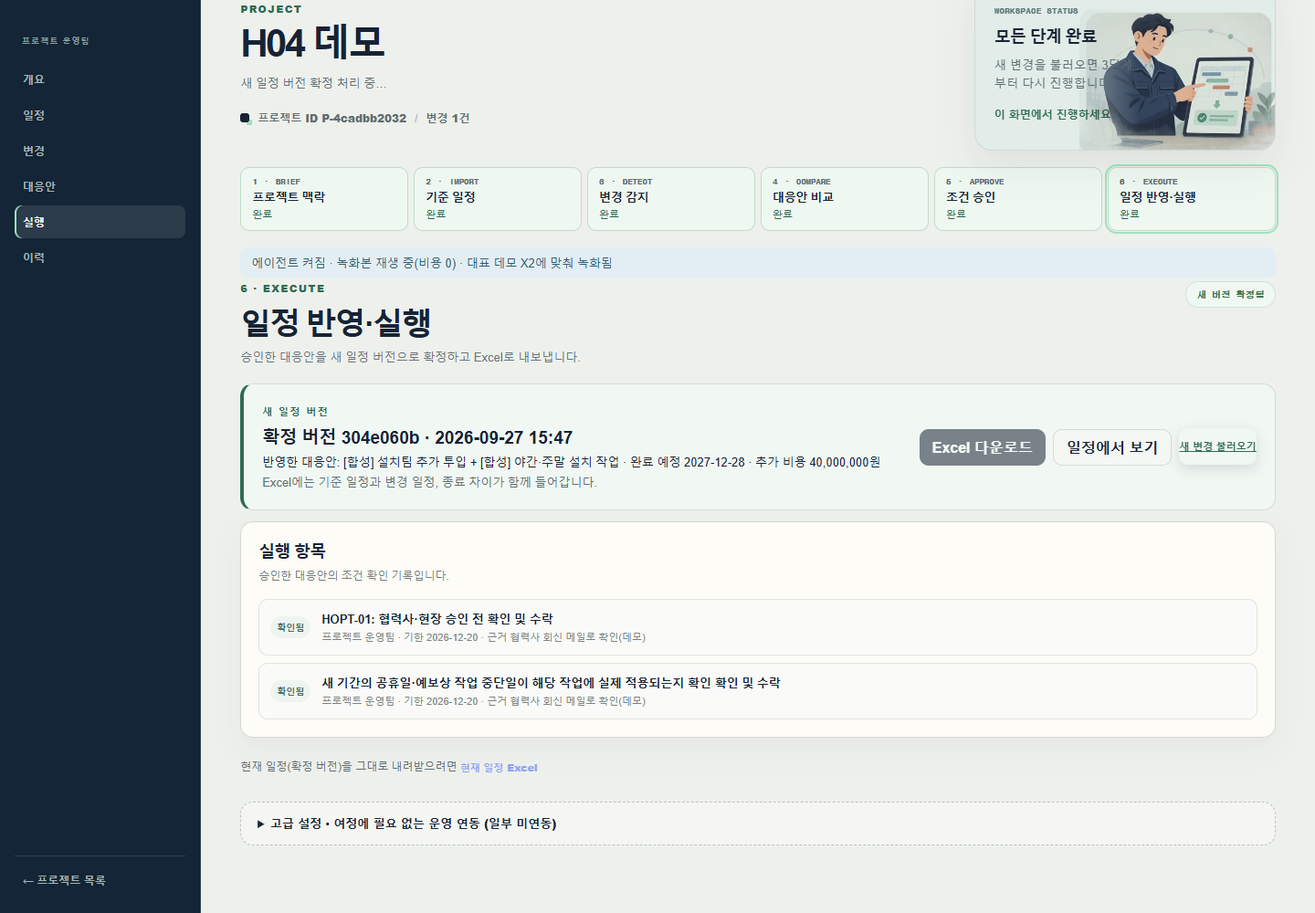
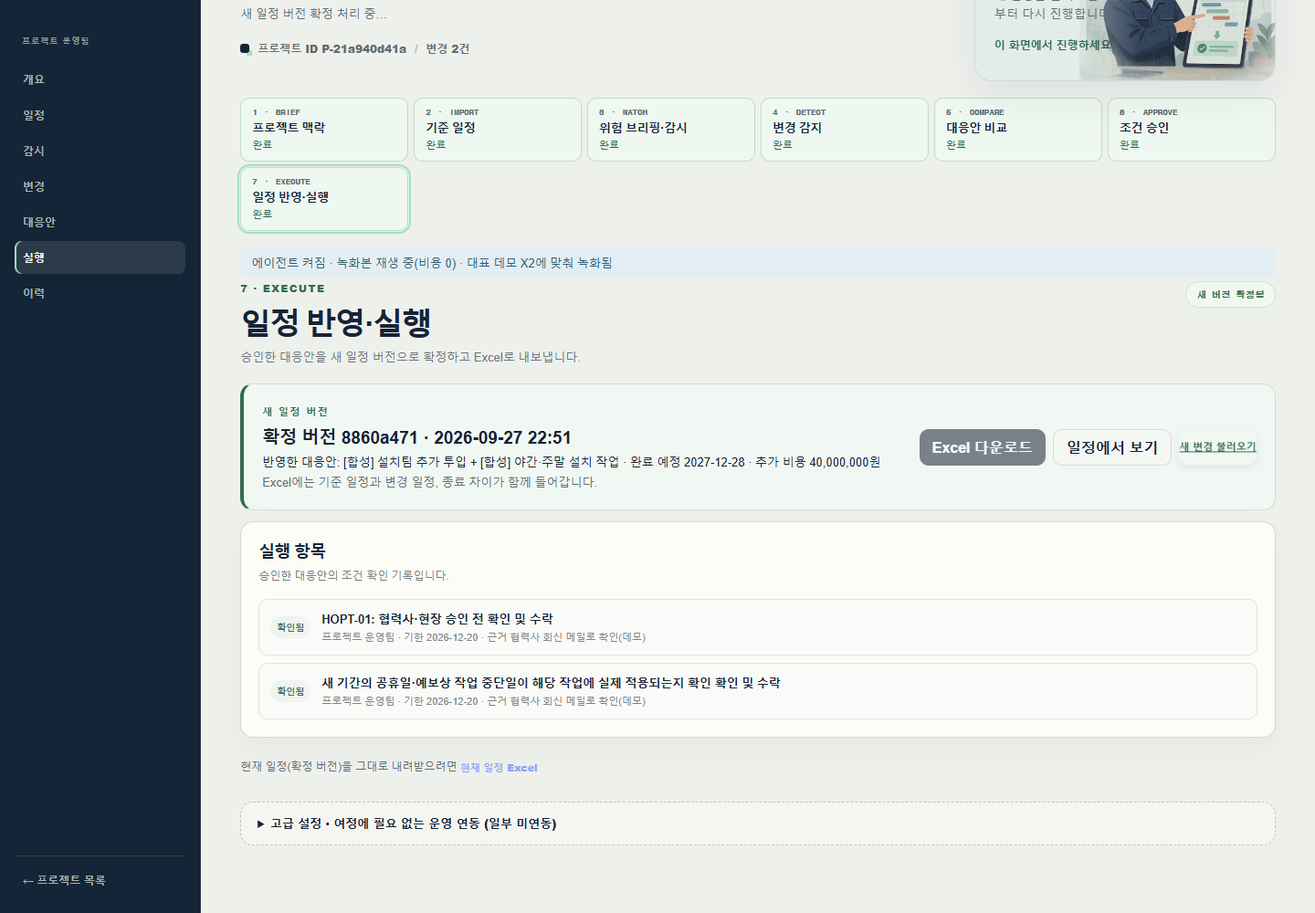
List an item's task once in the briefing, lay the inbox out in two lines and redo the docs
The China group listed its items' tasks again as task rows, which
repeated the T051 warning and action after the cause key changed. The
screen now lists each item's task once, under the item; the agent still
reads every task of the group, so the recorded briefing request is
unchanged. Inbox rows put sender and time on one line and subject and
preview on the next, which fits the change screen's narrow column.

README, the demo guide and the handoff follow the seven steps: the
schedule step connects the workbook, the watch step briefs, starts the
watch and shows the triage and the register, and the change step takes
notices from the inbox. Captures were retaken in replay mode from hero
connection through the watch, the inbox, the investigation linking the
expected risk, recalculation and Excel, and for H04.

diff --git a/apps/web/app/styles.css b/apps/web/app/styles.css
@@ -2847,14 +2847,16 @@ details.agent-decision > summary { cursor: pointer; }
 /* Inbox-shaped list of incoming supplier notices */
 .inbox { display: grid; gap: 10px; margin-bottom: 12px; }
 .inbox-list { list-style: none; margin: 0; padding: 0; border: 1px solid var(--line); border-radius: 10px; background: #fff; max-height: 360px; overflow-y: auto; }
-.inbox-row { display: grid; grid-template-columns: 150px 1fr auto; gap: 10px; align-items: baseline; padding: 9px 12px; border-bottom: 1px solid #eef0ec; cursor: pointer; font-size: 13px; }
+.inbox-row { display: grid; grid-template-columns: 1fr auto; column-gap: 10px; row-gap: 2px; align-items: baseline; padding: 9px 12px; border-bottom: 1px solid #eef0ec; cursor: pointer; font-size: 13px; }
 .inbox-row:last-child { border-bottom: 0; }
 .inbox-row:hover { background: #f6f8fb; }
 .inbox-row.selected { background: var(--accent-soft); }
 .inbox-row.imported { color: var(--muted); }
 .inbox-from { font-weight: 700; overflow: hidden; text-overflow: ellipsis; white-space: nowrap; }
-.inbox-subject { overflow: hidden; text-overflow: ellipsis; white-space: nowrap; min-width: 0; }
-.inbox-subject small { color: var(--muted); }
+.inbox-subject { grid-column: 1 / -1; display: grid; min-width: 0; }
+.inbox-subject b { overflow: hidden; text-overflow: ellipsis; white-space: nowrap; }
+.inbox-subject small { color: var(--muted); overflow: hidden; text-overflow: ellipsis; white-space: nowrap; }
+.inbox-subject .inbox-tag { justify-self: start; margin-bottom: 2px; }
 .inbox-time { color: var(--muted); font-size: 12px; white-space: nowrap; }
 .inbox-tag { font-style: normal; font-size: 10px; font-weight: 800; border-radius: 999px; padding: 2px 7px; margin-right: 6px; background: #eef1f0; color: #52606a; }
 .inbox-tag.lead { background: var(--deep); color: #fff; }
@@ -2870,10 +2872,7 @@ details.agent-decision > summary { cursor: pointer; }
 .feed-merged .status-chip { justify-self: start; }
 .feed-merged small { color: var(--muted); }
 .feed-merged .text-button { justify-self: start; }
-@media (max-width: 760px) {
-  .inbox-row { grid-template-columns: 1fr auto; }
-  .inbox-subject { grid-column: 1 / -1; white-space: normal; }
-}
+
 .linked-cause { margin: 8px 0 0; padding: 7px 10px; border-left: 3px solid var(--accent); background: var(--accent-soft); border-radius: 6px; font-size: 13px; }
 .linked-cause small { color: var(--muted); }
 .linked-cause-line { display: block; color: #2f4fb8; font-size: 12px; margin-top: 2px; }

diff --git a/apps/web/app/inbox.tsx b/apps/web/app/inbox.tsx
@@ -88,12 +88,11 @@ export function Inbox({ messages, selectedId, importedIds, busy, hint, onSelect,
           className={`inbox-row${row.id === selectedId ? " selected" : ""}${imported ? " imported" : ""}`}
           onClick={() => onSelect(row.id)} onKeyDown={(event) => { if (event.key === "Enter") onSelect(row.id); }} tabIndex={0}>
           <span className="inbox-from">{row.from}</span>
-          <span className="inbox-subject">
-            {row.tag === "lead" && <em className="inbox-tag lead">대표 데모</em>}
-            {imported && <em className="inbox-tag">등록됨</em>}
-            <b>{row.subject}</b> <small>{row.preview}</small>
-          </span>
           <time className="inbox-time">{received(row.receivedAt)}</time>
+          <span className="inbox-subject">
+            {(row.tag === "lead" || imported) && <span>{row.tag === "lead" && <em className="inbox-tag lead">대표 데모</em>}{imported && <em className="inbox-tag">등록됨</em>}</span>}
+            <b>{row.subject}</b><small>{row.preview}</small>
+          </span>
         </li>;
       })}
     </ul>

diff --git a/services/api/app/briefing.py b/services/api/app/briefing.py
@@ -216,8 +216,9 @@ def assemble(group: dict[str, Any], project: dict[str, Any], tasks: list[dict[st
     for row in item_rows:
         row["needed_by"] = str((by_id.get(row["task_id"]) or {}).get("baseline_start") or "")[:10]
     item_tasks = {row["task_id"] for row in item_rows}
-    task_rows = [_task_row(by_id[task_id], floats) for task_id in group["task_ids"]
-                 if task_id in by_id and (task_id not in item_tasks or group["cause"] != "import_licence")]
+    # The agent reads every task of the group with its attributes; the screen lists an item's task once, under it.
+    context_rows = [_task_row(by_id[task_id], floats) for task_id in group["task_ids"] if task_id in by_id]
+    task_rows = [row for row in context_rows if not (group["cause"] == "import" and row["task_id"] in item_tasks)]
     rows = item_rows + task_rows
     days = [row["float_days"] for row in rows if row["float_days"] is not None]
     lowest = min(days) if days else None
@@ -230,7 +231,7 @@ def assemble(group: dict[str, Any], project: dict[str, Any], tasks: list[dict[st
     risk = {**{key: group[key] for key in ("risk_key", "cause", "title", "basis", "case_query", "attributes")},
             "cause_label": CAUSE_LABEL.get(group["cause"], group["cause"]),
             "item_ids": [row["item_id"] for row in item_rows], "task_ids": sorted({row["task_id"] for row in rows}),
-            "items": item_rows, "tasks": task_rows[:8], "task_count": len(task_rows),
+            "items": item_rows, "tasks": task_rows[:8], "context_tasks": context_rows[:8], "task_count": len(task_rows),
             "min_float_days": lowest, "vulnerability": vulnerability(lowest), "critical_warnings": warnings,
             "actions": [_action(group["cause"], row, as_of) for row in ordered[:3]],
             "cases": [{key: row.get(key) for key in ("risk_id", "title", "published_date", "source_url",
@@ -281,7 +282,7 @@ def _model_candidate(risk: dict[str, Any]) -> dict[str, Any]:
                                                       "customs_required", "requirement", "planned_arrival", "task_id",
                                                       "float_days")} for row in risk["items"]],
             "tasks": [{key: row.get(key) for key in ("task_id", "name", "supplier_id", *ATTRIBUTES, "baseline_start",
-                                                      "float_days")} for row in risk["tasks"]]}
+                                                      "float_days")} for row in risk["context_tasks"]]}
 
 
 def agent_review(project: dict[str, Any], tasks: list[dict[str, Any]], procurement: list[dict[str, Any]],

diff --git a/docs/DEMO_GUIDE.md b/docs/DEMO_GUIDE.md
@@ -1,6 +1,17 @@
 # REPLAN 데모 가이드
 
-작업공간은 6단계를 순서대로 진행합니다: **개요 → 일정 → 변경 → 대응안 → 실행 → 이력**. 각 화면에서 진하게 강조된 버튼이 지금 누를 버튼이고, 위쪽 단계 표시는 보고 있는 결과의 진행 상태를 보여줍니다. 에이전트는 네 곳에 있습니다: **일정** 화면의 등록 시 위험 브리핑, **변경** 카드의 변화 자동 추리기, **대응안** 화면의 '에이전트로 숨은 위험 조사'와 접힌 '에이전트 설명'. 세 에이전트가 함께 쓰는 **리스크 대장**은 **개요** 화면에 있습니다. 전체 요약은 [인수인계 문서](HANDOFF.md)에 있습니다.
+작업공간은 7단계를 순서대로 진행합니다: **개요 → 일정 → 감시 → 변경 → 대응안 → 실행 → 이력**. 왼쪽 메뉴와 위쪽 단계 표시가 같은 순서입니다. 각 화면에서 진하게 강조된 버튼이 지금 누를 버튼이고, 위쪽 단계 표시는 보고 있는 결과의 진행 상태를 보여줍니다.
+
+| 구성 | 화면 | 하는 일 |
+| --- | --- | --- |
+| 워커: 수집 | 감시 | 등록 출처·공휴일·기상 수집. 데모는 **감시 시작**이 한 번의 수집을 시뮬레이션 |
+| 사전 에이전트: 등록 시 브리핑 | 감시 | 기준 일정의 위험 상위 3~5개. 순위는 계산기, 에이전트는 최대 3회 확인과 L2 근거 연결 |
+| 사전 에이전트: 변화 자동 추리기 | 감시(피드) | 들어온 공지를 관련 있음 / 확인 필요 / 무관으로 1회 분류 |
+| 사후 에이전트: 통보 조사 | 대응안 | 사람이 **에이전트로 숨은 위험 조사**를 누를 때만 실행 |
+| 리스크 대장 | 감시 | 세 에이전트가 함께 읽고 씀. 예상됨 → 신호 감지 → 발생 → 대응 중 → 종결 |
+| 사람 | 모든 화면 | 확인과 승인 |
+
+전체 요약은 [인수인계 문서](HANDOFF.md)에 있습니다.
 
 ## 준비
 
@@ -10,53 +21,49 @@ scripts\demo.cmd
 
 (macOS·Linux: `scripts/demo.sh`) 평소 스택을 멈추고(데이터는 유지) 별도의 깨끗한 데이터로, 녹화된 LLM 응답을 재생하는 모드(`REPLAN_LLM_MODE=replay`)로 띄웁니다. 키·비용 없이 에이전트가 동작하며 화면 위쪽에 "에이전트 켜짐 · 녹화본 재생 중(비용 0)"이 보입니다. "에이전트 꺼짐"이 보이면 이 스크립트로 다시 띄우세요. 다음에 깨끗하게 다시 시작하려면 `docker compose -p replan-demo down -v` 후 스크립트를 다시 실행합니다.
 
-`http://localhost:3000` → **데모 보기 → 워크스페이스 열기 → 프로젝트 만들기**(이름은 자유) → **일정**에서 **hero 데모 기준 일정 연결**(64개 작업).
+`http://localhost:3000` → **데모 보기 → 워크스페이스 열기 → 프로젝트 만들기**(이름은 자유).
 
-몇 초 뒤 같은 화면 위쪽에 **등록 시 위험 브리핑**이 나옵니다("규칙 + 에이전트 확인"). 1순위는 `중국산 품목 통관 · 중국 희토류 수출 허가(선적마다)`로 P-A1·P-B·P-C가 들어 있고, 빨간 줄로 "P-C: 여유 0일이라 취약합니다(주공정)"가 보입니다. 품목마다 협력사·원산지·통관·허가·도착 예정·여유가 있고, 선제 행동(예: P-C 서류 준비 상황 확인 · 2027-03-26까지), L2 사례 RS-019(기준 시점 이후 발행이라 참고만)가 붙습니다. 비어 있는 속성은 "속성 없음"으로 표시되고, 아래 줄에 속성이 빠진 작업 수가 나옵니다. **개요** 화면의 리스크 대장에는 위험 5개가 모두 '예상됨'입니다.
+## 장면 1 — X2: 등록 때 예상한 위험이 통보로 발생
 
-![등록 시 위험 브리핑](demo/x2_0_briefing.png)
-
-## 장면 1 — X2: 통보에 없던 숨은 위험
-
-| # | 누를 곳 | 정상이면 보이는 것 |
+| # | 화면 · 누를 곳 | 정상이면 보이는 것 |
 | --- | --- | --- |
-| 1 | **변경** → 합성 통보 목록 맨 위 '대표 데모'의 `X2 · 대표 데모 …` → **합성 통보 불러오기** | 변경 카드 **1장**(X2 협력사 통보). "통보에서 읽어낸 변경 (확인 필요): T042 … 2026-03-14", 아래 **관련 외부 신호 5건**: 감시 피드에서 들어온 합성 공지 N-X2(관련 있음, 같은 작업 T042·같은 사유 '수출 허가', 그 아래 "자동 추리기: 관련 있음 T020·T044·T051·T058 · 확인 필요 … · 무관 12건 제외")와 유사 위험 실제 기사 4건(CNBC·NC Newsline·Washington Post·Bloomberg, 제목·출처·날짜·링크·관련 이유), "기사 속 지연 일수는 계산에 쓰지 않음" |
-| 2 | (선택) 아래 **외부 변화 감시 (선택)** 펼치기 | '감시 피드에서 들어온 신호 1건': N-X2가 **관련 있음**으로 표시되고 X2 통보 카드에 들어가 있음 |
-| 3 | X2 카드의 **해석 확인 후 영향 분석**(이 화면의 유일한 진한 버튼) | **대응안** 화면으로 자동 이동. 단계 표시 1~4 완료·5 조건 승인이 지금 할 단계. "통보 내용만 반영: 영향 없음 · 완료 2027-12-21", "대응 불필요: 현재 일정으로 목표 충족" |
-| 4 | 같은 화면의 **에이전트로 숨은 위험 조사** | 몇 초 뒤 한 줄 결론 "통보에 없던 P-C도 같은 수출 허가 대상일 수 있음 · 최악 +52일 · 제출 기한 2027-02-08", 빨간 상자 **"등록 시 예상했던 위험이 발생함: R-import-licence-CN"**(신호 감지 → 발생, 등록 때 경고한 P-C 주공정 문구 포함)과 비교 카드 **통보 내용만 반영**(영향 없음) 대 **에이전트 조사 후**(P-C +52일 위험, 최악 완료 2028-02-11) |
-| 5 | (선택) 접힌 **근거 문장 · 실제 기사**, **협력사 메일 초안**, **판단 기록** 펼치기 | 원문 강조와 근거 기사(CNBC 2025-10-15), 제출 기한이 들어간 메일 초안, 확인 4단계와 LLM 호출 수·비용 |
-| 6 | 확인 요청 칸에 회신 내용 입력(선택) → **P-C도 해당함 · 일정 다시 계산** | "조사 결과 반영: 완료 2028-02-11 (+52일)". 계산이 끝나면 대응안 목록 맨 위에 **추천** "제어 통합·교정 집중 투입 + 시운전·통합시험 병행 준비" **2028-01-25 · 회복 17일 · 32,000,000원**이 선택된 상태 |
-| 7 | 오른쪽 **확인 요청 만들기** → 조건마다 회신 근거 입력 → **확인 기록** → **이 대응안 승인** | 실행 화면으로 이동 |
-| 8 | **새 일정 버전 확정** → **Excel 다운로드** | 확정 버전 카드, 단계 표시 6단계 모두 완료, `replan-….xlsx`의 '변경 일정' 시트 마지막 완료일 2028-01-25 |
-| 9 | **개요** → 리스크 대장의 R-import-licence-CN → **근거와 변경 이력** | 상태가 예상됨 → 신호 감지(변화 자동 추리기, N-X2 인용) → 발생(사후 조사 에이전트) → 대응 중(사람 확인) 순서로 기록됨. **사람이 상태 바꾸기**로 '종결'을 기록할 수 있음 |
+| 1 | **일정** → **hero 데모 기준 일정 연결** | 64개 작업 일정. 일정 화면에는 연결만 있고, "다음 단계 · 감시 시작 →" 안내가 나옴. 아직 변경·신호는 없음 |
+| 2 | **감시 시작 →** | 감시 화면. 몇 초 뒤 **등록 시 위험 브리핑**("규칙 + 에이전트 확인", 일정 기준 2025-08-20 · 근거 기준 2025-10-20). 1순위 **중국산 통관 품목**(P-A1·P-B·P-C, 속성 3개 × 여유 0일)과 빨간 줄 "P-C: 여유 0일이라 취약합니다(주공정)". 파란 상자 **"에이전트가 L2 근거로 연결한 원인: 중국 희토류 자석 수출 통제 · RS-019"**. 엑셀에는 원산지·통관·원산지 증명·품목명(희토류 자석 포함)만 있고 위험은 적혀 있지 않음. 품목마다 여유, 선제 행동(예: P-C 원산지 증명·교정 성적서 준비 상황 확인 · 2027-03-26까지). 비어 있는 속성은 "속성 없음". 아래 리스크 대장의 위험 5개는 모두 '예상됨' |
+| 3 | 같은 화면의 **감시 시작 · 데모 수집 시뮬레이션** | 감시 피드에 합성 공지 N-X2(중국산 희토류 자석 부품 선적별 수출 허가, 검토 최대 60일)가 들어오고 **변화 자동 추리기**가 한 번 분류: 관련 있음 4(T020·T044·T051·T058), 확인 필요 15(체크박스), **무관 12건 제외 · 이유 보기**(접힘). 리스크 대장 R-import-CN이 **신호 감지**. 조사는 자동으로 시작하지 않고 **에이전트로 조사** 버튼만 보임. 위쪽 안내는 **변경 불러오기 →** |
+| 4 | **변경 불러오기 →** → 받은편지함의 `대표 데모` 행 ([P-A1] 서보 모터 자석 부품 통관 지연) → **변경으로 등록** | 받은편지함은 보낸 사람·제목·받은 시각·미리보기 목록과 본문 보기. 변경 카드 **1장**: "T042 … 2026-03-14", **관련 외부 신호**에 N-X2(같은 작업 T042·같은 사유 '수출 허가', "자동 추리기: 관련 있음 …")와 유사 위험 실제 기사 |
+| 5 | X2 카드의 **해석 확인 후 영향 분석** | **대응안** 화면으로 이동. "통보 내용만 반영: 영향 없음 · 완료 2027-12-21", "대응 불필요: 현재 일정으로 목표 충족" |
+| 6 | **에이전트로 숨은 위험 조사** | 한 줄 결론 "통보에 없던 P-C도 같은 수출 허가 대상일 수 있음 · 최악 +52일 · 제출 기한 2027-02-08", 빨간 상자 **"등록 시 예상했던 위험이 발생함: R-import-CN 중국산 통관 품목 · 중국 희토류 자석 수출 통제"**(신호 감지 → 발생, 등록 때 경고한 P-C 주공정 문구), 비교 카드 **통보 내용만 반영**(영향 없음) 대 **에이전트 조사 후**(P-C +52일 위험, 최악 완료 2028-02-11, P-B는 여유로 흡수) |
+| 7 | (선택) 접힌 **근거 문장 · 실제 기사**, **협력사 메일 초안**, **판단 기록** | 원문 강조와 근거 기사(CNBC 2025-10-15), 제출 기한이 들어간 메일 초안, 에이전트가 고른 확인과 LLM 호출 수·비용 |
+| 8 | **P-C도 해당함 · 일정 다시 계산** | "조사 결과 반영: 완료 2028-02-11 (+52일)". 추천 "제어 통합·교정 집중 투입 + 시운전·통합시험 병행 준비" **2028-01-25 · 회복 17일 · 32,000,000원** |
+| 9 | **확인 요청 만들기** → 조건마다 회신 근거 입력 → **확인 기록** → **이 대응안 승인** → **새 일정 버전 확정** → **Excel 다운로드** | 7단계 모두 완료. `replan-….xlsx`의 '변경 일정' 시트 마지막 완료일 2028-01-25 |
+| 10 | **감시** → 리스크 대장 R-import-CN → **근거와 변경 이력** | 예상됨(등록 시 브리핑) → 신호 감지(변화 자동 추리기, N-X2 인용) → 발생(사후 조사 에이전트) → 대응 중(사람 확인). **사람이 상태 바꾸기**로 '종결' 기록 가능 |
 
-6번에서 **P-C 해당 없음**을 고르면 통보 내용만 반영한 결과(2027-12-21)를 유지하고, **현재 일정 유지로 진행**으로 승인할 수 있습니다.
+8번에서 **P-C 해당 없음**을 고르면 통보 내용만 반영한 결과(2027-12-21)를 유지하고, **현재 일정 유지로 진행**으로 승인할 수 있습니다. 감시를 시작하지 않고 X2를 등록하면 같은 시기 공지가 없어 조사할 것이 없습니다(받은편지함에 안내가 나옴).
 
-![X2 변경 카드와 관련 외부 신호](demo/x2_1_change_card.png)
-![감시 피드의 N-X2](demo/x2_1b_watch_feed.png)
+![일정: 연결만](demo/x2_00_schedule.png)
+![등록 시 위험 브리핑](demo/x2_0_briefing.png)
+![감시 피드와 변화 자동 추리기](demo/x2_1_watch_feed.png)
+![리스크 대장: 신호 감지](demo/x2_1c_register_signal.png)
+![받은편지함](demo/x2_1a_inbox.png)
+![X2 변경 카드](demo/x2_1b_change_card.png)
 ![X2 영향 분석 직후](demo/x2_2_before_investigation.png)
 ![X2 조사 결과](demo/x2_3_investigation_result.png)
 ![X2 확인 후 재계산](demo/x2_4_after_recalculation.png)
-![리스크 대장](demo/x2_6_risk_register.png)
-
-### 변화 자동 추리기만 보기
-
-합성 통보 목록 '테스트용'의 `N-X2 · 합성 외부 공지`만 불러오면 공지 카드가 따로 생깁니다. **변화 자동 추리기**가 규칙 후보 29개를 관련 있음 4 · 확인 필요 15로 나누고, 무관 12건은 **무관 12건 제외 · 이유 보기**에 접습니다. 확인 필요 작업은 체크한 것만 **에이전트로 조사**의 계산 대상에 들어갑니다. 조사는 자동으로 시작하지 않습니다.
-
-![N-X2 자동 추리기](demo/nx2_triage.png)
+![X2 실행](demo/x2_5_execute.png)
+![리스크 대장 이력](demo/x2_6_risk_register.png)
 
 ## 장면 2 — H04: 결정적 계산과 비용 효율
 
 | # | 누를 곳 | 정상 화면 |
 | --- | --- | --- |
-| 1 | **변경** → 합성 통보 `H04 · Logistics Partner / 가상 메일` → **합성 통보 불러오기** | 해석된 변경 **T045 · 완료 예정일 2026-12-28** |
-| 2 | **해석 확인 후 영향 분석** | 대응안 화면으로 이동 |
-| 3 | 대응안 목록 | 맨 위 **추천** 두 안 조합 2027-12-28(회복 28일), 무대응 **2028-01-25**(35일 지연), 설치팀 추가·야간 작업 등 **2028-01-11**(회복 14일) |
-| 4 | `무대응` 선택 | 영향 내역: 통보에 의한 지연 **21일**, 밀린 기간의 외부 제약 추가 **14일**(새로 걸린 공휴일) |
-| 5 | 아래 **계산된 대응안에 대한 에이전트 설명 보기** 펼치기 | LLM 호출 1회·비용, 계산된 8개 안의 설명(옵션 ID별), 확인할 내용, 협력사 메일 초안 |
-| 6 | `[합성] 야간·주말 설치 작업` → **확인 요청 만들기** → 회신 근거 입력 → **확인 기록** | 조건이 `확인됨`, **이 대응안 승인** 활성 |
-| 7 | **이 대응안 승인** | 실행 화면으로 이동 |
-| 8 | **새 일정 버전 확정** → **Excel 다운로드** | 확정 버전 카드, `replan-<프로젝트ID>-<버전>.xlsx` |
+| 1 | 새 프로젝트 → **일정**에서 hero 연결 → **감시 시작 →** → **감시 시작 · 데모 수집 시뮬레이션** → **변경 불러오기 →** | 받은편지함 |
+| 2 | 받은편지함의 `[T045] 현장 설비 반입 완료일 변경`(Logistics Partner) → **변경으로 등록** | 해석된 변경 **T045 · 완료 예정일 2026-12-28** |
+| 3 | **해석 확인 후 영향 분석** | 대응안 화면으로 이동 |
+| 4 | 대응안 목록 | 맨 위 **추천** 두 안 조합 2027-12-28(회복 28일), 무대응 **2028-01-25**(35일 지연), 설치팀 추가·야간 작업 등 **2028-01-11**(회복 14일) |
+| 5 | `무대응` 선택 | 영향 내역: 통보에 의한 지연 **21일**, 밀린 기간의 외부 제약 추가 **14일**(새로 걸린 공휴일) |
+| 6 | 아래 **계산된 대응안에 대한 에이전트 설명 보기** 펼치기 | LLM 호출 1회·비용, 계산된 8개 안의 설명(옵션 ID별), 확인할 내용, 협력사 메일 초안 |
+| 7 | 추천 안 → **확인 요청 만들기** → 회신 근거 입력 → **확인 기록** → **이 대응안 승인** | 실행 화면으로 이동 |
+| 8 | **새 일정 버전 확정** → **Excel 다운로드** | 확정 버전 카드, '변경 일정' 마지막 완료일 2027-12-28 |
 
 ![H04 영향 내역](demo/H04_05_impact.png)
 ![H04 실행](demo/H04_06_execute.png)
@@ -65,24 +72,24 @@ scripts\demo.cmd
 
 ## 테스트·평가용
 
-아래 시나리오는 회귀 테스트·평가용이며 합성 통보 목록의 '테스트용' 묶음에서 불러올 수 있습니다.
+아래 시나리오는 회귀 테스트·평가용입니다. 협력사 통보는 받은편지함의 '테스트' 행으로, 외부 공지는 **감시** 화면 아래 **테스트용 공지 수집**으로 불러옵니다.
 
 | 자료 | 내용 |
 | --- | --- |
 | H01~H08 | 협력사 통보 원본. H02 규제 언급(조건부로만 남김), H06 완료일 미정(질문), H07 연락처만 변경(영향 없음), H08 정정 통보 |
 | V01~V11 | 표현 변형. V08처럼 작업 번호가 없으면 에이전트가 원문 인용과 함께 후보를 제시하고, 사람이 **영향 작업과 날짜 지정** 후에만 계산 |
-| X1-A | EU 역외 설치·시운전 기술자 취업 허가 확인 공지(근거 RS-001). 자동 추리기가 후보 26개를 확인 필요 9 · 무관 17로 나누고(관련 있음 0), 조사는 계산할 작업이 없어 독일(EU) 협력사 작업 T047·T054를 빼고 어느 작업에 비EU 기술자가 오는지 묻고 멈춤(M4) |
-| X1-B | 헝가리 인허가 처리 지연(최대 45일). 자동 추리기가 T013을 관련 있음, T008·T012·T029·T057을 확인 필요로 둠. 조사는 T013만 계산해 여유 168일로 흡수, 알림 없이 "완료일 영향 없음 · 기록만"(M2). 확인 필요 작업은 사람이 고르면 함께 계산 |
-| X2-대조 | 사유(시험 인력)가 달라 N-X2와 연결하지 않음("관련 없음 · 기록만"). 사유가 겹치지 않는 공지는 통보 카드에 합치지 않고 별도 카드로 남음 |
+| X1-A | EU 역외 설치·시운전 기술자 취업 허가 확인 공지(근거 RS-001). 자동 추리기가 후보 26개를 확인 필요 9 · 무관 17로 나누고(관련 있음 0), 조사는 계산할 작업이 없어 9개 현장 작업마다 비EU 기술자가 오는지 묻고 멈춤(M4) |
+| X1-B | 헝가리 인허가 처리 지연(최대 45일). 자동 추리기가 T008·T012·T013·T029·T057을 모두 확인 필요로 둠. 사람이 T013을 골라 조사하면 T013만 계산해 여유 168일로 흡수, 알림 없이 "완료일 영향 없음 · 기록만"(M2) |
+| X2-대조 | 사유(시험 인력)가 달라 N-X2와 연결하지 않음("관련 없음 · 기록만"), 리스크 대장에도 연결하지 않음 |
 | `REPLAN_demo_inputs.xlsx` | 일정 → Excel 파일 선택 → 업로드·미리보기 → 기준 일정 확정. 변경 이벤트 행은 자동 등록되지 않으므로 원문을 붙여 넣음 |
-| 외부 변화 감시 | 변경 화면 아래 '외부 변화 감시'에서 제안 수락·제외 후 활성화. 감지된 공지는 변화 자동 추리기가 1회 분류(별도 일일 한도)하고, 조사·분석은 사람이 시작할 때만 실행. 무엇을 가져오는지는 [인수인계 문서](HANDOFF.md#외부-변화-감시가-가져오는-것) 참고 |
+| 실제 감시 | 감시 화면의 **감시 계획 설정**에서 제안을 수락·제외하고 활성화한 뒤 **감시 시작**. 들어온 공지는 변화 자동 추리기가 1회 분류(별도 일일 한도)하고, 조사·분석은 사람이 시작할 때만 실행. 무엇을 가져오는지는 [인수인계 문서](HANDOFF.md#외부-변화-감시가-가져오는-것) 참고 |
 
 녹화된 흐름 11개(등록 시 브리핑, H04, H02, V08, 외부 공지, 공휴일, X2, X2-대조, X1-A, X1-B, X2 확인 후 재계산)는 `python scripts/agent_flows.py --mode replay`로 비용 없이 재생해 확인합니다. 에이전트 모드별 차이:
 
 | 모드 | 설정 | 동작 |
 | --- | --- | --- |
-| 에이전트 꺼짐 | 기본(키 없음 또는 `REPLAN_PAID_CALLS_ENABLED=false`) | 통보 내용과 계산기만. 화면 위쪽에 "에이전트 꺼짐"과 켜는 방법(`scripts\demo.cmd`) 표시 |
+| 에이전트 꺼짐 | 기본(키 없음 또는 `REPLAN_PAID_CALLS_ENABLED=false`) | 통보 내용과 계산기만. 브리핑은 규칙 순위만. 화면 위쪽에 "에이전트 꺼짐"과 켜는 방법(`scripts\demo.cmd`) 표시 |
 | 재생 | `REPLAN_LLM_MODE=replay` | 녹화된 응답으로 에이전트 동작, 비용 0. 녹화와 다른 요청은 멈춤 |
 | 실제 | 키 + `REPLAN_PAID_CALLS_ENABLED=true` | 등록 시 브리핑(에이전트 확인 최대 3회), 감지된 공지의 자동 추리 1회(별도 한도), 작업·날짜 없는 통보 해석 1회, 정식 분석 설명 1회, 사람이 시작한 조사(최대 6회). 잠정 분석은 LLM 없음 |
 
-고급 설정(실행 화면 아래: 협력사 휴무일, 공개 피드, 메일·알림 연결 등)의 연동 여부는 화면에 `분석에 반영`·`저장만`·`미연동`으로 표시됩니다.
+고급 설정(실행 화면 아래: 협력사 휴무일, 공개 피드, 메일·알림 연결 등)의 연동 여부는 화면에 `분석에 반영`·`저장만`·`미연동`으로 표시됩니다. 받은편지함은 지금 합성 메일을 보여 주며, 메일 연결은 같은 목록 구조(`apps/web/app/inbox.tsx`의 `InboxMessage`)에 데이터 출처만 바꿔 붙이도록 준비되어 있습니다(실제 Gmail 연결은 아직 없음).
